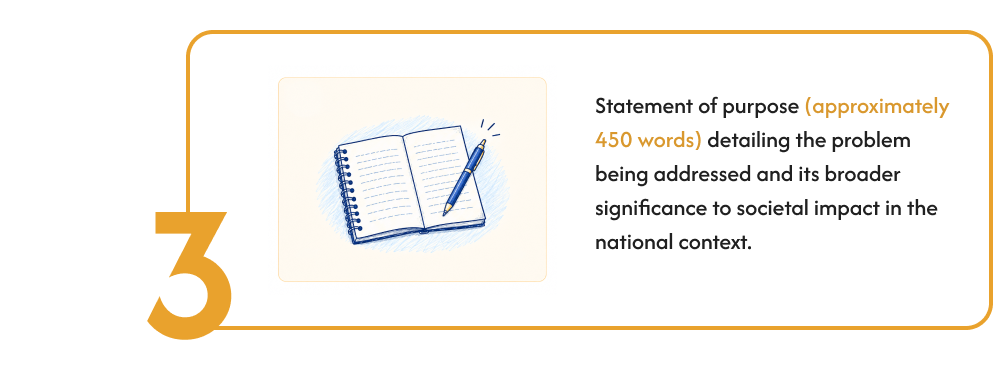
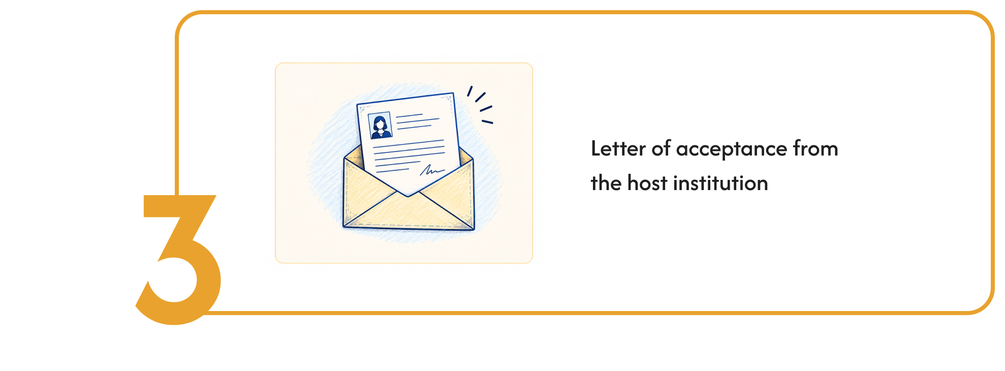
apply: replace HTML cards 2 & 3 with Figma-exported PNGs; fix docs bg and spacing
- Export new card-2.png (Proof of the viva date) and card-3.png
  (Letter of acceptance from the host institution) from updated Figma draft
- Revert cards 2 & 3 from custom HTML back to ap-card-full PNG images,
  matching card-1 design exactly
- Remove ap-card-html CSS block (no longer needed)
- Fix ap-docs background from #F6F6F6 to #fff (matches Figma frame fill)
- Tighten ap-docs padding-bottom 81px → 16px to match Figma gap to disclaimer

diff --git a/apply.css b/apply.css
@@ -118,8 +118,8 @@
    Number is baked into each card image.
    ─────────────────────────────────────────────────────────────── */
 .ap-docs {
-  padding-bottom: 81px;
-  background: #F6F6F6;
+  padding-bottom: 16px;
+  background: #fff;
 }
 
 .ap-card-full {
@@ -133,78 +133,6 @@
 
 /* Mobile card alternatives — hidden on desktop, shown on mobile */
 .ap-card-mobile { display: none; }
-
-/* HTML cards — replicates the visual design of .ap-card-full PNG cards.
-   Number hangs outside the border box (bottom-left), illustration left, text right. */
-.ap-card-html {
-  position: relative;
-  width: 1010px;
-  margin: 48px auto 0;
-  padding-bottom: 55px; /* room for the number hanging below the card */
-}
-
-.ap-card-html .ap-card-inner {
-  position: relative;
-  margin-left: 115px;
-  border: 4px solid #d9982e;
-  border-radius: 27px;
-  background: #fff;
-  display: flex;
-  align-items: center;
-  gap: 48px;
-  padding: 36px 48px 36px 36px;
-  min-height: 280px;
-  box-sizing: border-box;
-}
-
-/* Large decorative number — absolute, hangs left of and below the card border */
-.ap-card-html .ap-card-num {
-  position: absolute;
-  left: -115px;
-  bottom: -55px;
-  font-family: var(--font-deco);
-  font-size: 220px;
-  color: #ffb338;
-  line-height: 1;
-}
-
-/* Illustration slot — beige rounded box matching the card-1 PNG style */
-.ap-card-html .ap-card-illus-wrap {
-  flex-shrink: 0;
-  width: 236px;
-  height: 220px;
-  background: #fdf8ed;
-  border-radius: 16px;
-  display: flex;
-  align-items: center;
-  justify-content: center;
-  overflow: hidden;
-  padding: 12px;
-  box-sizing: border-box;
-}
-
-.ap-card-html .ap-card-illus-wrap img {
-  width: 100%;
-  height: 100%;
-  object-fit: contain;
-}
-
-.ap-card-html .ap-card-label {
-  font-family: var(--font-main);
-  font-size: 24px;
-  font-weight: 700;
-  color: #202020;
-  line-height: 1.4;
-  margin: 0;
-}
-
-.ap-card-html .ap-card-sub {
-  font-weight: 400;
-  color: #d9982e;
-  display: block;
-  margin-top: 4px;
-  font-size: 22px;
-}
 
 /* ─── 5. DISCLAIMER ────────────────────────────────────────────
    Rocket image left + disclaimer SVG text right.

diff --git a/apply.html b/apply.html
@@ -118,24 +118,18 @@
       <p class="ap-card-label">Curriculum Vitae <span class="ap-card-sub">(maximum 2 pages)</span></p>
     </div>
 
-    <div class="ap-card-html">
-      <div class="ap-card-inner">
-        <span class="ap-card-num">2</span>
-        <div class="ap-card-illus-wrap">
-          <img src="assets/apply/phd-1.png" alt="" aria-hidden="true">
-        </div>
-        <p class="ap-card-label">Proof of the viva date</p>
-      </div>
+    <img class="ap-card-full" src="assets/apply/card-2.png"
+         alt="Proof of the viva date">
+    <div class="ap-card-mobile">
+      <span class="ap-card-num">2</span>
+      <p class="ap-card-label">Proof of the viva date</p>
     </div>
 
-    <div class="ap-card-html">
-      <div class="ap-card-inner">
-        <span class="ap-card-num">3</span>
-        <div class="ap-card-illus-wrap">
-          <img src="assets/apply/nomination-letter-1.png" alt="" aria-hidden="true">
-        </div>
-        <p class="ap-card-label">Letter of acceptance <span class="ap-card-sub">from the host institution</span></p>
-      </div>
+    <img class="ap-card-full" src="assets/apply/card-3.png"
+         alt="Letter of acceptance from the host institution">
+    <div class="ap-card-mobile">
+      <span class="ap-card-num">3</span>
+      <p class="ap-card-label">Letter of acceptance <span class="ap-card-sub">from the host institution</span></p>
     </div>
 
   </section>

diff --git a/mobile-apply.css b/mobile-apply.css
@@ -105,36 +105,6 @@
     font-size: 17px;
   }
 
-  /* ── HTML CARDS (2 & 3) mobile reset ───────────────────────── */
-  .ap-card-html {
-    width: auto;
-    padding-bottom: 0;
-    margin-bottom: 16px;
-  }
-
-  .ap-card-html .ap-card-inner {
-    margin-left: 0;
-    min-height: 0;
-    padding: 20px 20px 20px 16px;
-    gap: 16px;
-  }
-
-  /* Number re-enters flow, illustration hidden */
-  .ap-card-html .ap-card-num {
-    position: static;
-    font-size: 64px;
-    flex-shrink: 0;
-    min-width: 44px;
-    text-align: center;
-    align-self: center;
-  }
-
-  .ap-card-html .ap-card-illus-wrap { display: none; }
-
-  .ap-card-html .ap-card-label { font-size: 20px; color: #2a427e; }
-
-  .ap-card-html .ap-card-sub { font-size: 17px; color: #202020; }
-
   /* ── DISCLAIMER ─────────────────────────────────────────────── */
   .ap-disclaimer {
     position: static;
